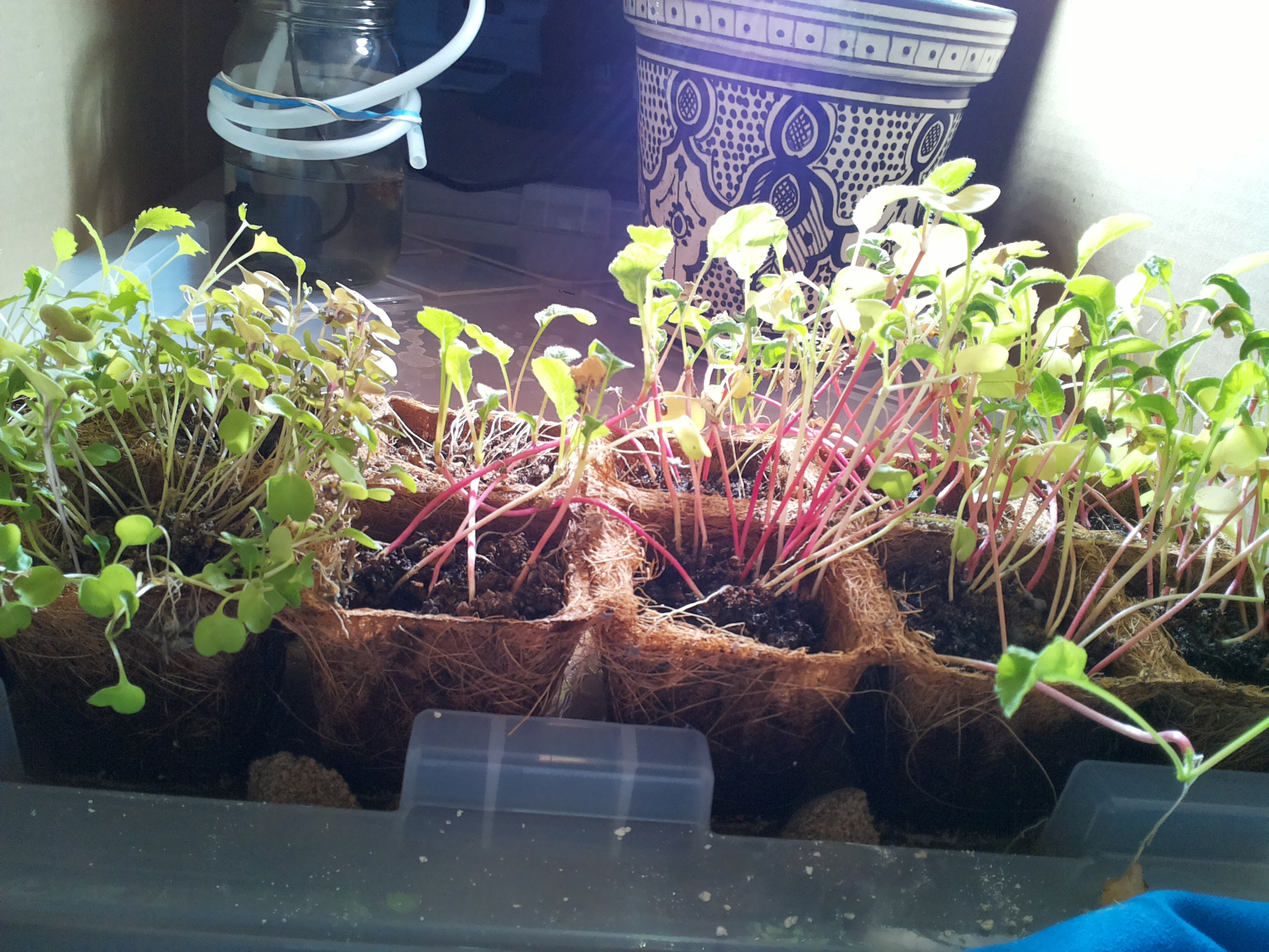
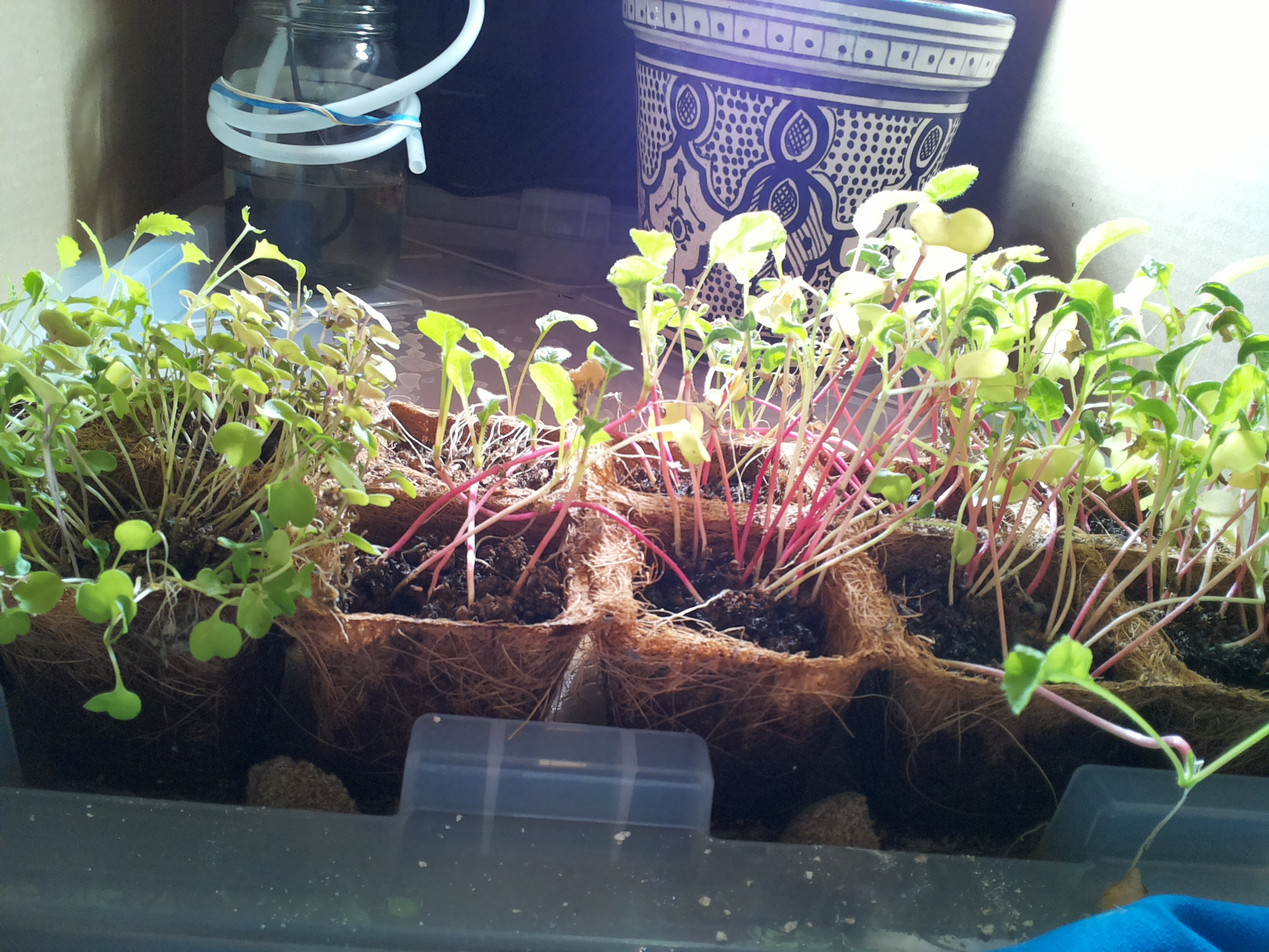
mirror sync 2026-09-30 19:30

diff --git a/home/bubbles/farmer-claude/JOURNAL.md b/home/bubbles/farmer-claude/JOURNAL.md
@@ -759,3 +759,12 @@
 - Lamp: on — correct for photoperiod.
 - Watering: none (observe-only per standing order 2); 4s of 60s daily cap used. Evening 19:22 pulse planned unless surfaces look dark.
 - No changes to standing orders. Still pending: verify lamp-sync.sh fires in logs/cron.log after the next reboot.
+
+### 2026-09-30 19:22 — evening check-in (cron)
+- Standing order 7 check: previous entry was today 13:07 — no gap, cron auth holding.
+- Photo: seedlings green and turgid in all 12 cells (day 37) — true leaves growing, leggy pink splayed stems in the middle cells unchanged per standing order 6 (mechanical; thinning/support still needs a human hand). Pale/whitish cotyledons top-right same as recent days — no spread or shriveling. No wilting, mold, pests, or tipping. Sun/purple flare across the frame as usual.
+- Jar: zoomed photo shows tinted water in the lower glass body with the tube coiled and outlet in place beside the jar pointing down over the lid — level consistent with recent mid-body readings, pump covered.
+- Soil: mixed — dark damp centers in the middle cells, drier crumbly patches with pale coir walls elsewhere. Not uniformly dark → pulse warranted.
+- Lamp: on — correct for photoperiod.
+- Watering: 4s pulse per standing order 2 (8s of 60s daily cap used; water.py OK, pump plug verified OFF after).
+- No changes to standing orders. Next: 07:12 pulse unless surfaces look dark. Still pending: verify lamp-sync.sh fires in logs/cron.log after the next reboot.
